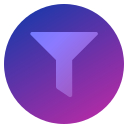
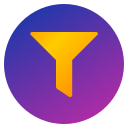
added image to readme

Changed region(s): [[0.2188, 0.25, 0.7812, 0.7812]]

diff --git a/public/output.css b/public/output.css
@@ -10,8 +10,6 @@
     --color-red-600: oklch(57.7% 0.245 27.325);
     --color-red-700: oklch(50.5% 0.213 27.518);
     --color-green-500: oklch(72.3% 0.219 149.579);
-    --color-emerald-400: oklch(76.5% 0.177 163.223);
-    --color-emerald-600: oklch(59.6% 0.145 163.225);
     --color-blue-500: oklch(62.3% 0.214 259.815);
     --color-blue-600: oklch(54.6% 0.245 262.881);
     --color-blue-700: oklch(48.8% 0.243 264.376);

diff --git a/README.md b/README.md
@@ -1,3 +1,8 @@
+
+<p align="center">
+<img src=images/icon-128.png alt="icon">
+</p>
+
 # Nix, No Reposts!
 
 Tired of seeing the same posts over and over on Reddit?
